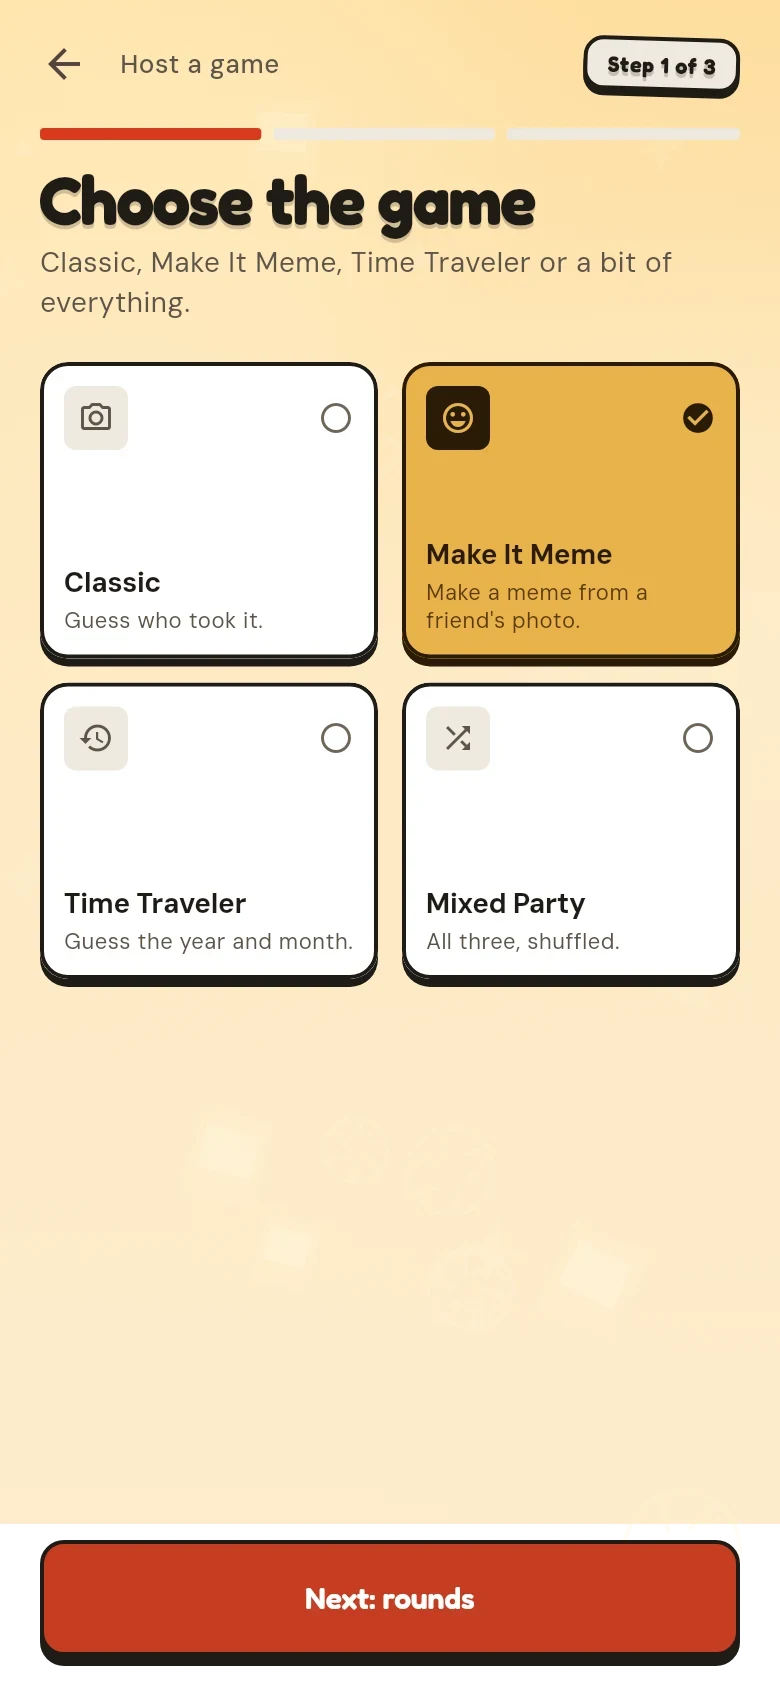
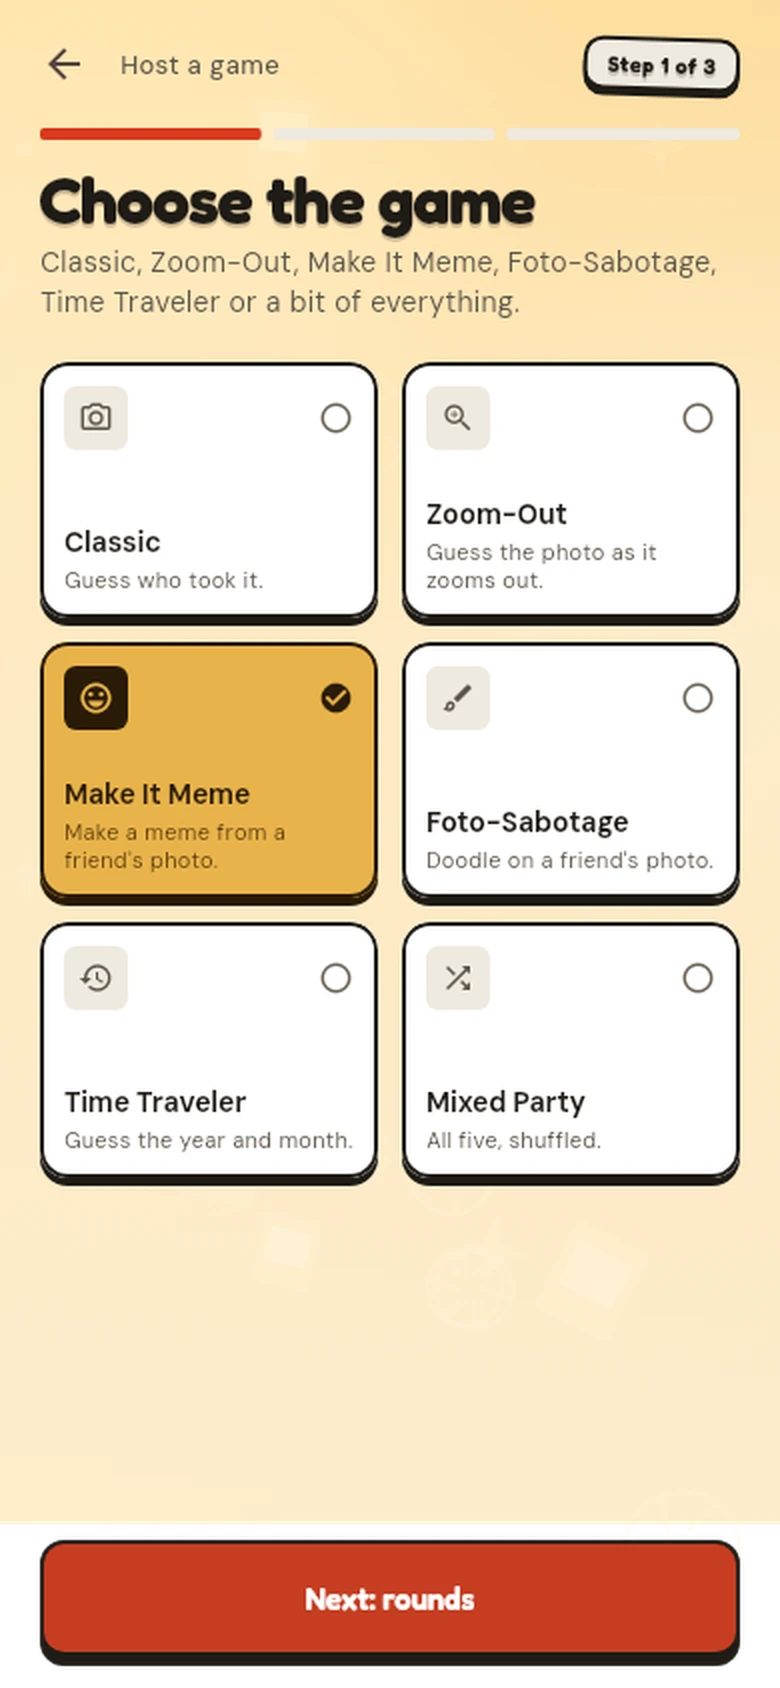
docs: refresh mode screenshots and download links

diff --git a/README.md b/README.md
@@ -10,24 +10,26 @@ rejoin your last room after a restart.
 
 | Round | Lobby | Make It Meme vault | Podium |
 | --- | --- | --- | --- |
-| <img src="docs/screenshots/round.webp" width="190" alt="A Classic round with a party dog photo and a round clock"> | <img src="docs/screenshots/lobby.webp" width="190" alt="Lobby with a QR code and the chosen setup"> | <img src="docs/screenshots/prepare.webp" width="190" alt="Make It Meme six-photo vault with six player photos"> | <img src="docs/screenshots/podium.webp" width="190" alt="Podium with the winning meme and match awards"> |
+| <img src="docs/screenshots/round.webp" width="190" alt="A Classic round with a party dog photo and a round clock"> | <img src="docs/screenshots/lobby.webp" width="190" alt="Lobby with a QR code and the chosen setup"> | <img src="docs/screenshots/prepare.webp" width="190" alt="Make It Meme photo check with player photos"> | <img src="docs/screenshots/podium.webp" width="190" alt="Podium with the winning meme and match awards"> |
 
 ## Game modes
 
 - **Classic:** guess who took the photo.
-- **Make It Meme:** everyone brings six photos, you get one from someone else, build a template with live text on the photo, then vote up, meh or down.
+- **Zoom-Out:** a tiny detail zooms out over 15 seconds. Guess early for up to 1000 points; a wrong guess locks you out for the round.
+- **Make It Meme:** everyone brings six to twelve photos, you get one from someone else, build a template with live text on the photo, then vote up, meh or down.
+- **Foto-Sabotage:** draw on a friend's photo with five marker colours, then vote for the best sabotage.
 - **Time Traveler:** pick a decade, year and month, then read the evidence timeline.
-- **Mixed Party:** Classic, Make It Meme and Time Traveler, shuffled.
+- **Mixed Party:** all five round modes, shuffled into one match.
 
 | Pick a mode | Make It Meme | Time Traveler |
 | --- | --- | --- |
-| <img src="docs/screenshots/modes.webp" width="190" alt="Setup screen with four game modes"> | <img src="docs/screenshots/meme-editor.webp" width="190" alt="Make It Meme editor with live text on a friend's photo"> | <img src="docs/screenshots/timeline-reveal.webp" width="190" alt="Time Traveler evidence timeline with staggered player pins"> |
+| <img src="docs/screenshots/modes.webp" width="190" alt="Setup screen with six game modes"> | <img src="docs/screenshots/meme-editor.webp" width="190" alt="Make It Meme editor with live text on a friend's photo"> | <img src="docs/screenshots/timeline-reveal.webp" width="190" alt="Time Traveler evidence timeline with staggered player pins"> |
 
 ## Download
 
 - **Android:** [WhoTook.apk](https://github.com/warreth/WhoTook/releases/latest/download/WhoTook.apk) is the universal build, Android 7.0 and newer. Most phones can use the smaller `WhoTook-<version>-arm64-v8a.apk` from the release page.
-- **Automatic updates:** [Add to Obtainium](https://apps.obtainium.imranr.dev/redirect?r=obtainium%3A%2F%2Fadd%2Fhttps%3A%2F%2Fgithub.com%2Farreth%2FWhoTook), or paste the repository URL in Obtainium.
-- **iPhone:** sideload `WhoTook-<version>-unsigned.ipa` (or the stable `WhoTook-unsigned.ipa`) with SideStore or AltStore, or build from source. App Store release is coming.
+- **Automatic updates:** [Add to Obtainium](https://apps.obtainium.imranr.dev/redirect?r=obtainium%3A%2F%2Fadd%2Fhttps%3A%2F%2Fgithub.com%2Fwarreth%2FWhoTook), or paste the repository URL in Obtainium.
+- **iPhone:** join the public TestFlight beta at [testflight.apple.com/join/J2VmHSS1](https://testflight.apple.com/join/J2VmHSS1). You can also sideload `WhoTook-<version>-unsigned.ipa` (or the stable `WhoTook-unsigned.ipa`) with SideStore or AltStore, or build from source. The App Store release is coming.
   Add the source in the app: `https://whotook.party/altstore.json`.
 - **Website:** [whotook.party](https://whotook.party).
 - **Support:** [hello@whotook.party](mailto:hello@whotook.party) or [whotook.party/support](https://whotook.party/support).
@@ -35,9 +37,9 @@ rejoin your last room after a restart.
 ## How it plays
 
 1. **Set the table.** Pick a game mode, the rounds and the pace. Open the room and show the QR code.
-2. **Join and fill the vault.** Everyone joins from their own phone, picks a name and avatar, then approves their photos (six for Make It Meme). A selfie, a gallery photo or an icon all work as an avatar.
-3. **Guess, meme or time travel.** Classic asks who took it. Make It Meme gives you a friend's photo, seven templates and five match-wide swaps. Time Traveler asks for the date. If a connection drops, the phone reconnects to the same room and picks up the round.
-4. **Crown a winner.** The podium shows the match-winning meme, hands out awards and saves the top memes. Play five more rounds, head back to the lobby to change the game or add players, or skip a stuck round from the host menu.
+2. **Join and fill the vault.** Everyone joins from their own phone, picks a name and avatar, then approves their photos (six to twelve, depending on the mode and rounds). A selfie, a gallery photo or an icon all work as an avatar.
+3. **Guess, meme, draw or time travel.** Classic asks who took it. Zoom-Out starts on one detail and zooms out. Make It Meme gives you a friend's photo, seven templates and five swaps every round. Foto-Sabotage hands you a marker. Time Traveler asks for the date. If a connection drops, the phone reconnects to the same room and picks up the round.
+4. **Crown a winner.** The podium shows the top memes and sabotages, hands out awards and saves the best creations. Play five more rounds, head back to the lobby to change the game or add players, or skip a stuck round from the host menu.
 
 Two to twelve players. No accounts, no ads, no analytics.
 
@@ -45,7 +47,8 @@ Two to twelve players. No accounts, no ads, no analytics.
 
 Photos are resized and stripped of EXIF on the phone that owns them, shared only
 with the players in the match, and held in memory. On the same Wi-Fi or hotspot,
-the host phone runs the game and nothing leaves the network. Online play uses an
+the host phone runs the game and nothing leaves the network. That local
+connection is not encrypted, so use a network you trust. Online play uses an
 encrypted WebRTC connection and a small Cloudflare Worker for signaling.
 
 Read the [privacy notes](https://whotook.party/privacy) or the
